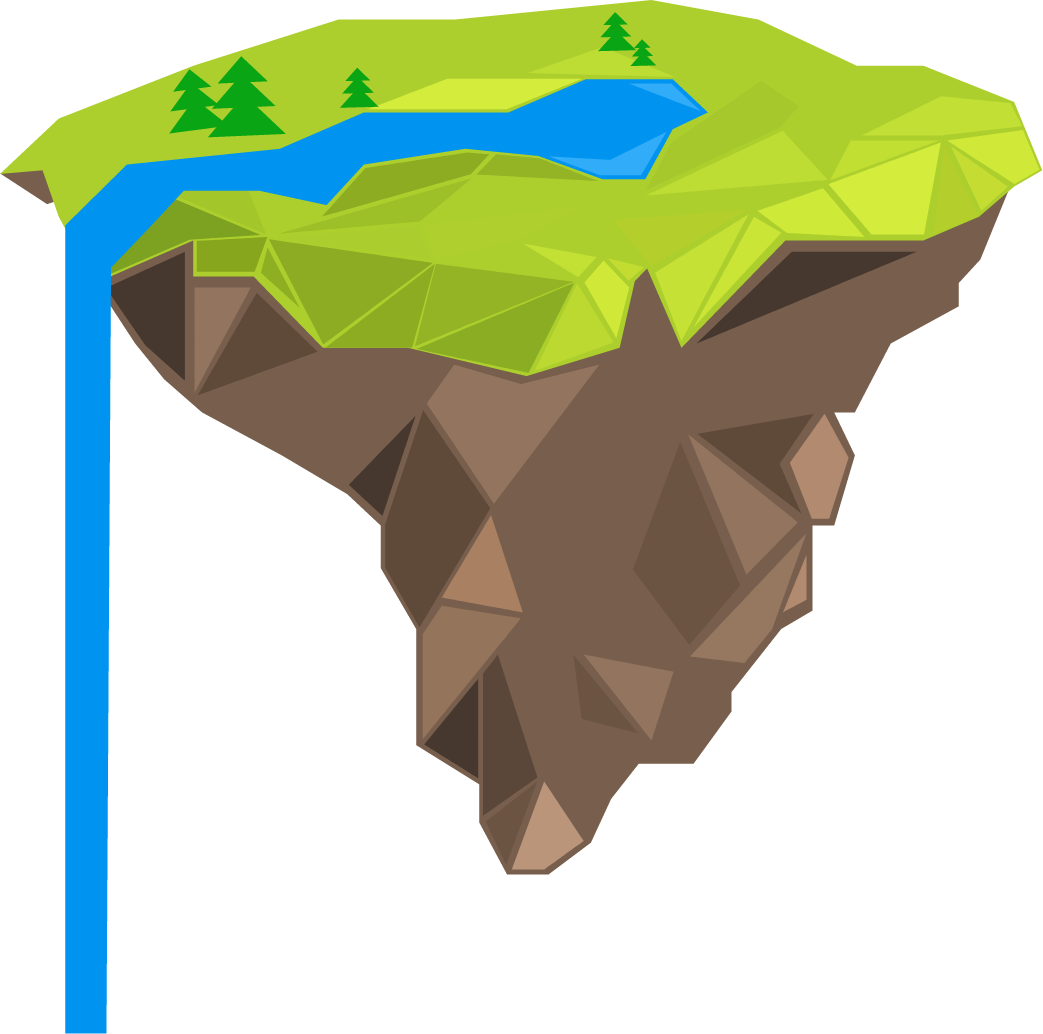
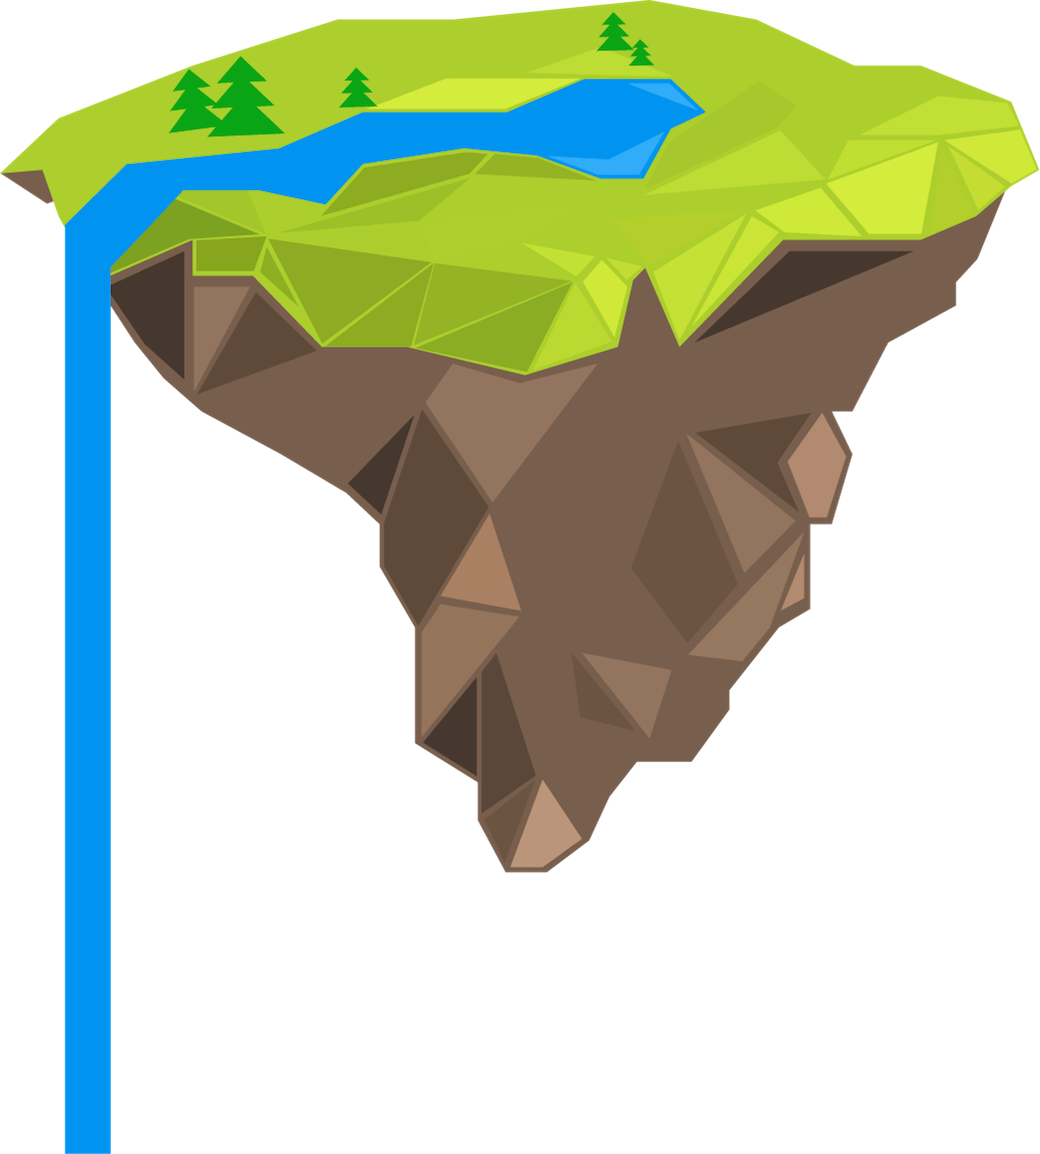
Fix island layout

diff --git a/css/island.css b/css/island.css
@@ -163,14 +163,16 @@ body {
 
 .main {
     display: flex;
-    align-items: center;
+    flex-flow: row wrap;
+    flex-grow: 1;
+    align-items: flex-end;
     justify-content: center;
 }
 
 /* Island area */
 
 .island-container-wrapper {
-    width: 40%;
+    width: 50%;
     position: relative;
 }
 
@@ -191,7 +193,7 @@ body {
 /* Island ground */
 
 .island-wrapper {
-    width: 70%;
+    width: 57%;
     position: absolute;
     left: 10%;
     bottom: 0px;
@@ -200,7 +202,7 @@ body {
 .island-wrapper:before {
     content: "";
 	display: block;
-	padding-top: 85%;
+	padding-top: 110%;
 }
 
 .island {
